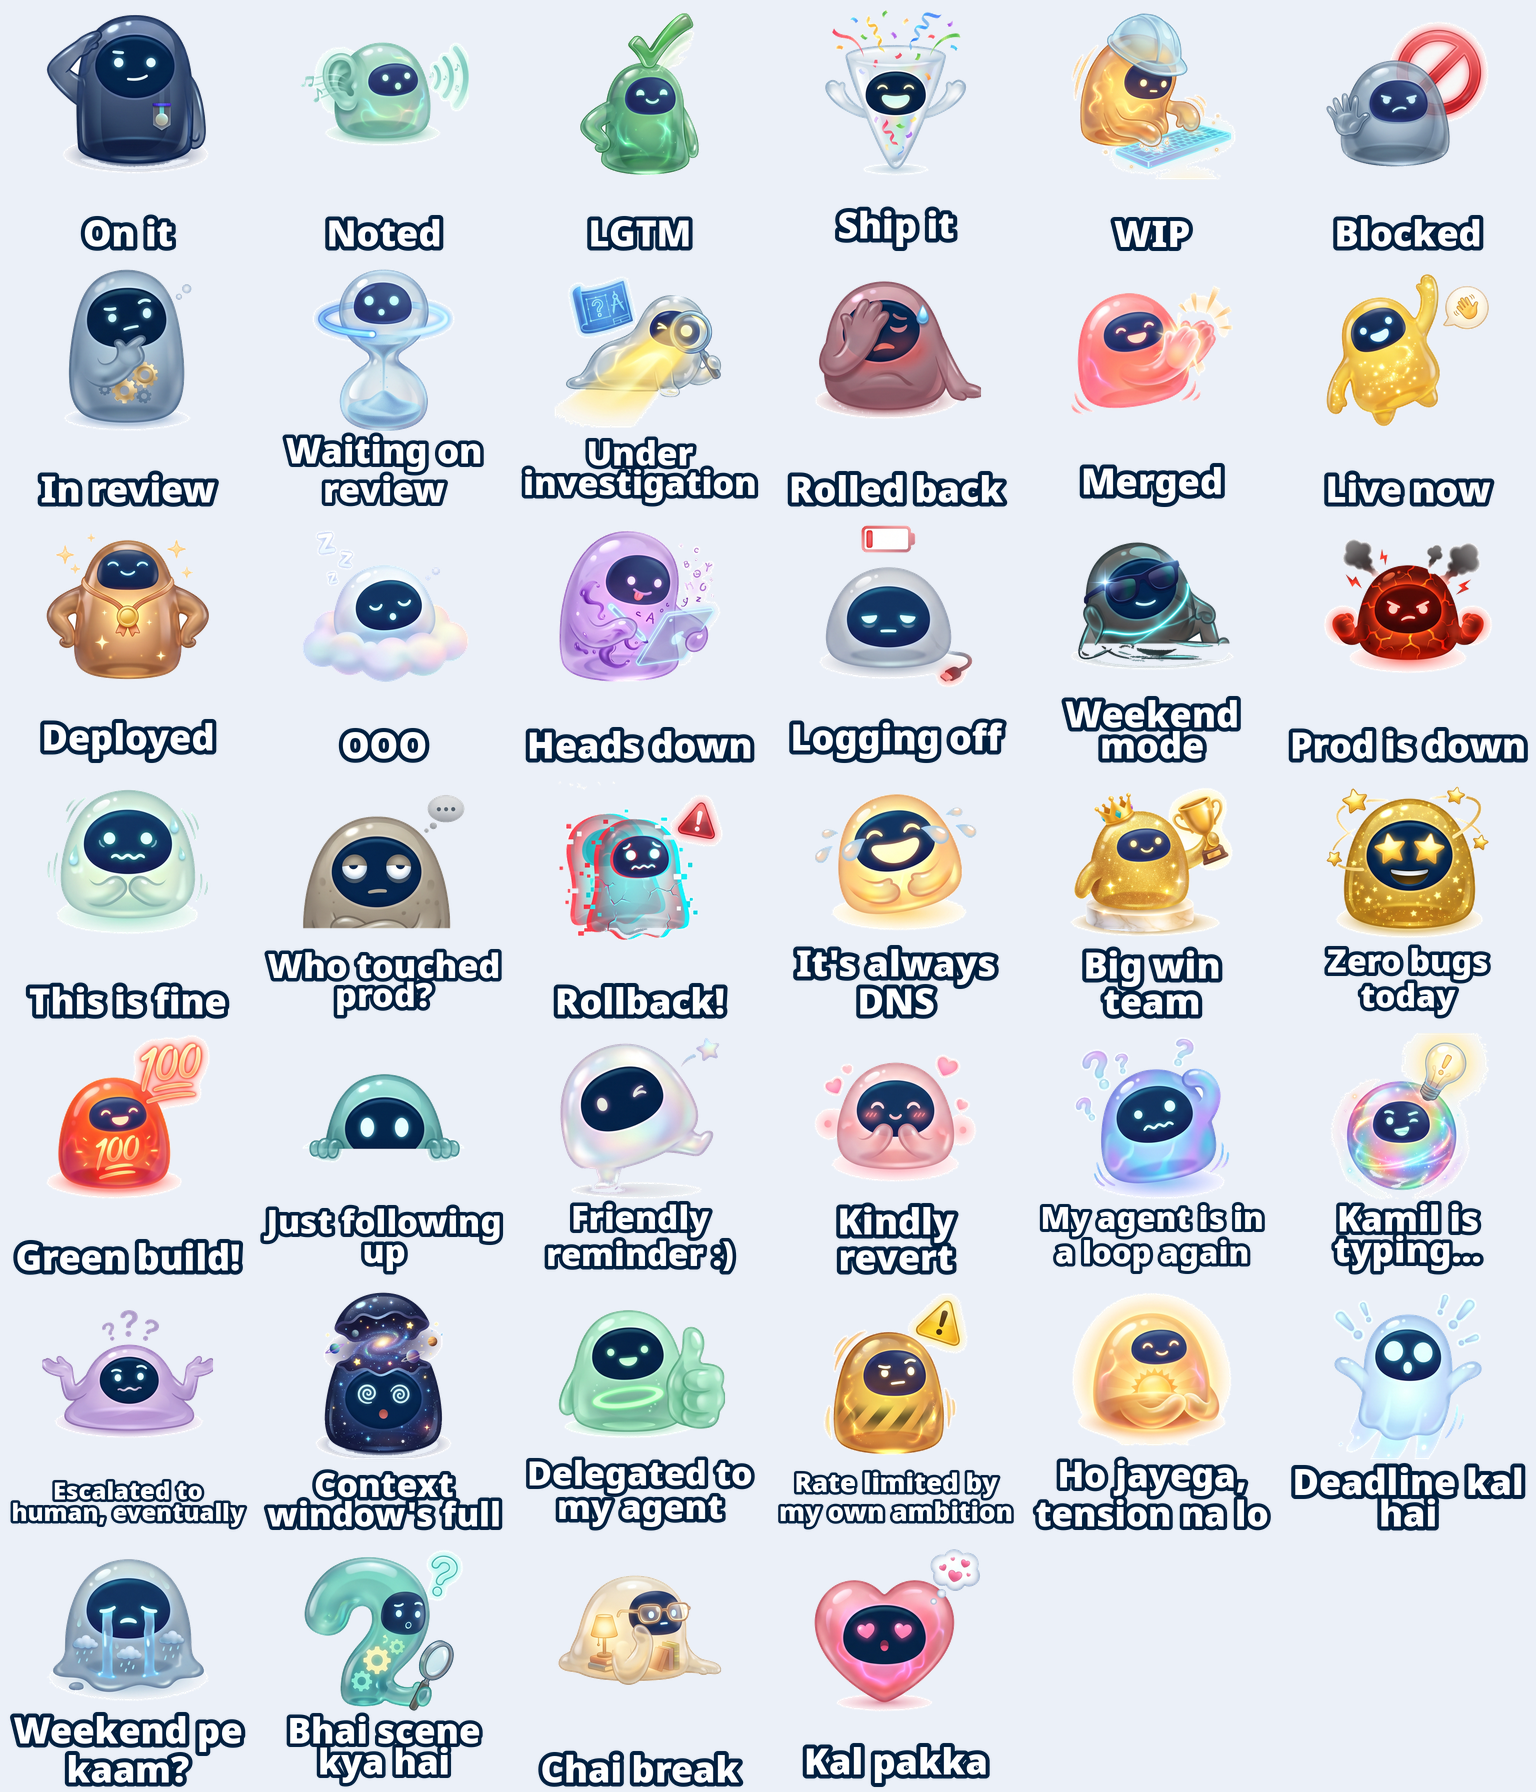
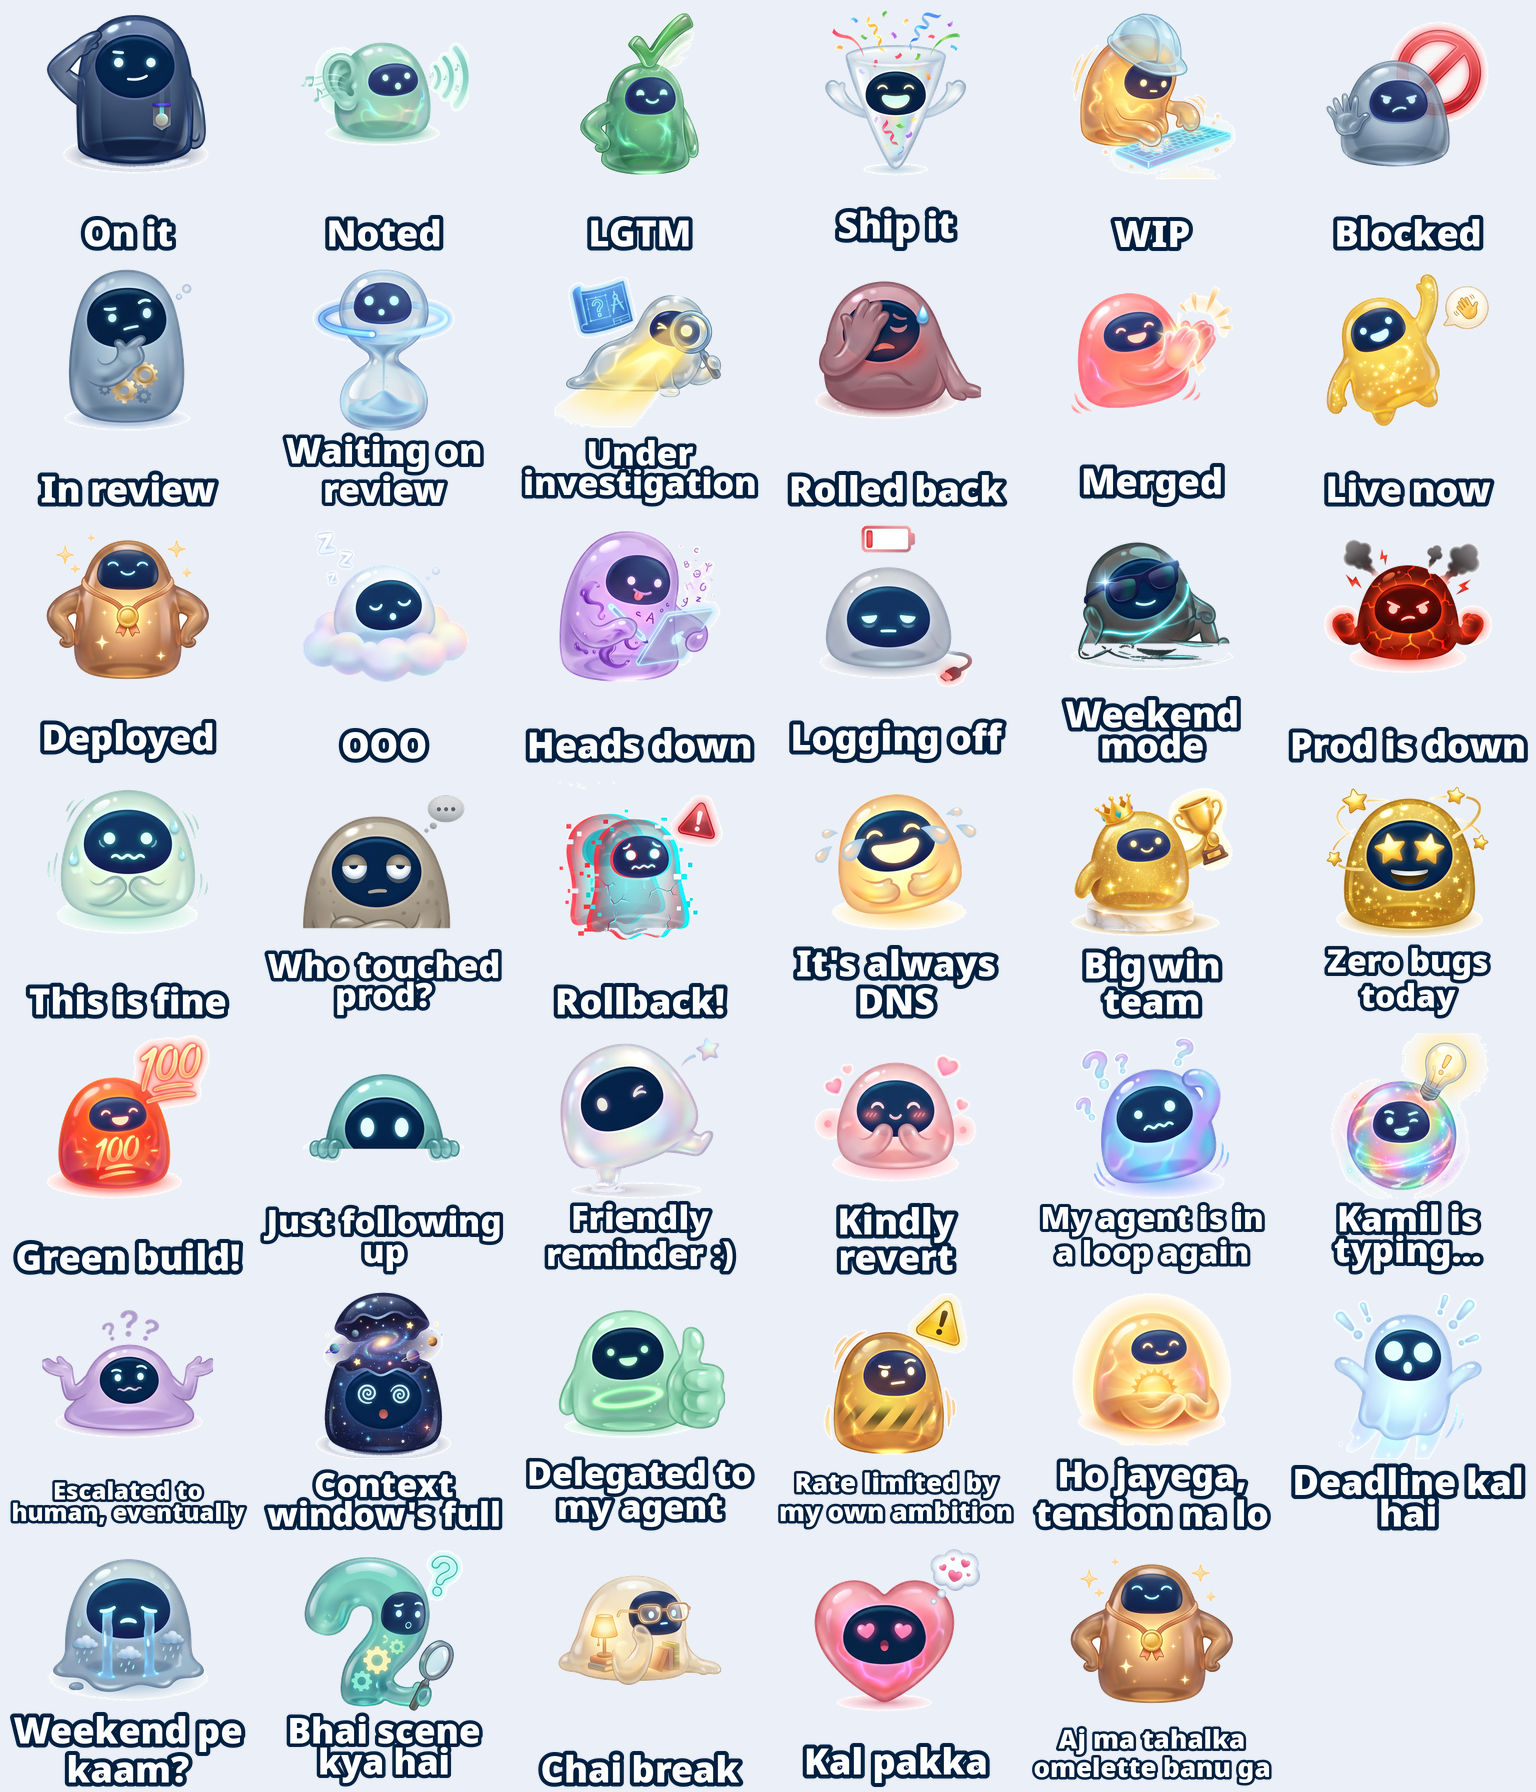
Sticker: Aj ma tahalka omelette banu ga (rumi-proud)

Changed region(s): [[0.6875, 0.875, 0.8438, 1.0]]

diff --git a/stickers/README.md b/stickers/README.md
@@ -9,7 +9,7 @@ Made for Slack, WhatsApp and Telegram. The emoji carry the emotion, the text car
 
 | Pack | What | Count |
 |---|---|---|
-| `rumi-office-v1/` | Office shorthand (On it, LGTM, Blocked, Prod is down…), AI-coworker lines (My agent is in a loop again, Kamil is typing…), desi office (Ho jayega tension na lo, Kal pakka, Chai break) | 40 |
+| `rumi-office-v1/` | Office shorthand (On it, LGTM, Blocked, Prod is down…), AI-coworker lines (My agent is in a loop again, Kamil is typing…), desi office (Ho jayega tension na lo, Kal pakka, Chai break, Aj ma tahalka omelette banu ga) | 41 |
 
 Each pack folder has `png/` (512×512, Slack/Telegram), `webp/` (512×512 under 100KB, WhatsApp) and `preview.png`.
 

diff --git a/README.md b/README.md
@@ -23,7 +23,7 @@ Discord: Server Settings → Emoji → upload (≤256KB). `emoji-slime-v6/512/` 
 
 ## Meme stickers
 
-Caption + emoji = sticker. 40 office/AI/desi one-liners on v6 bodies, WhatsApp/Telegram-ready. See [`stickers/README.md`](stickers/README.md) for the pack and how to add more.
+Caption + emoji = sticker. 41 office/AI/desi one-liners on v6 bodies, WhatsApp/Telegram-ready. See [`stickers/README.md`](stickers/README.md) for the pack and how to add more.
 
 ![Stickers](stickers/rumi-office-v1/preview.png)
 
